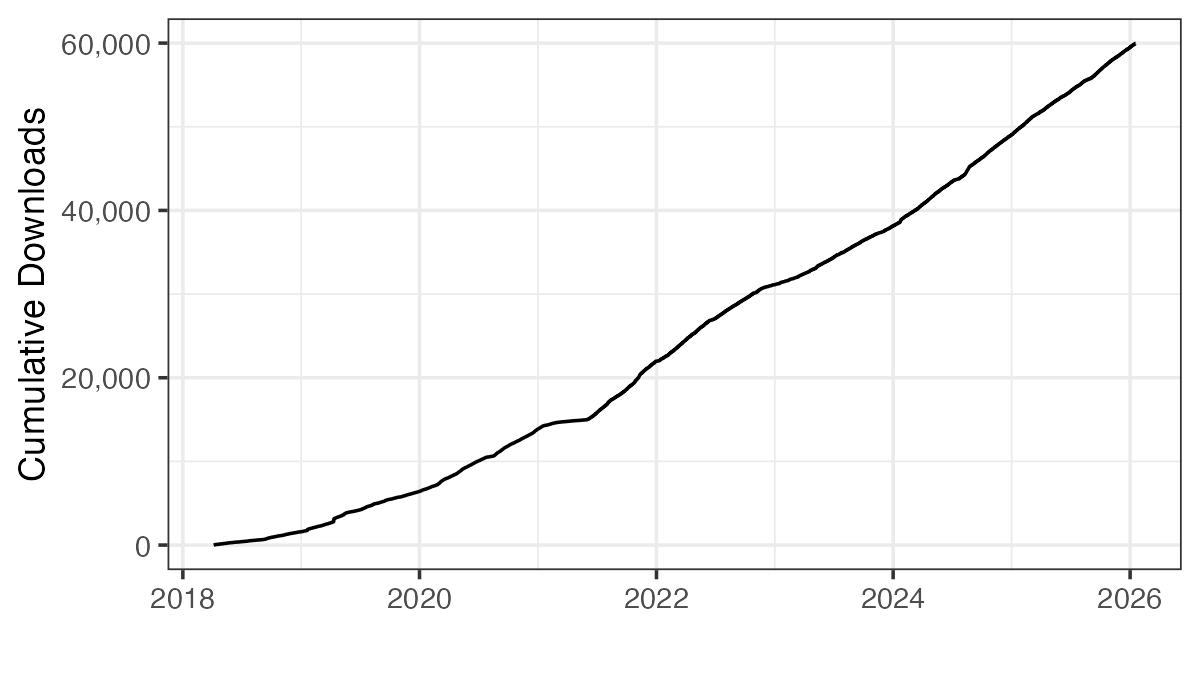
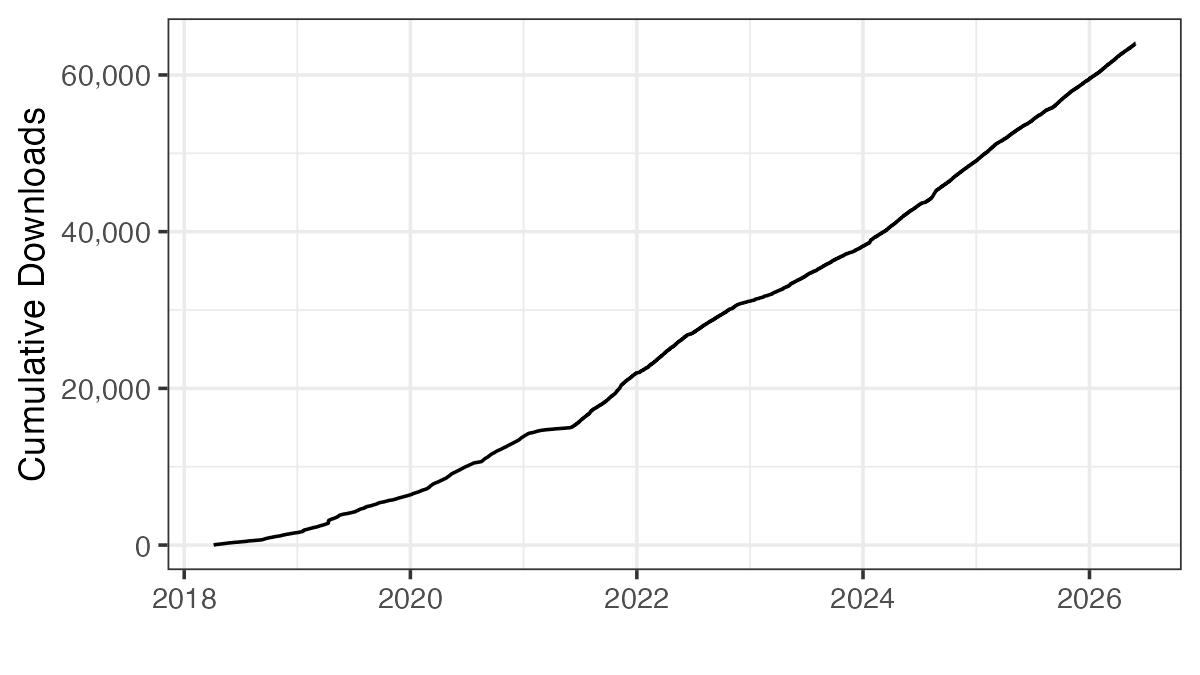
added Stata journal and download stats

diff --git a/docs/about/index.html b/docs/about/index.html
@@ -62,7 +62,7 @@
   "headline": "About KonFound-It!",
   "description" : "Welcome to our space about sensitivity analysis.\nQuestions? Issues? Suggestions? Reach out through the KounFound-It! Google Group.\nPurpose All of the assumptions of statistical analysis rarely hold. So the challenge for the pragmatist is to understand when evidence is strong enough to support action. That\u0026rsquo;s where sensitivity analysis comes in—so we can understand how robust our inferences are to challenges to our assumptions. One example is a statement such as:",
   "inLanguage" : "en",
-  "wordCount":  722 ,
+  "wordCount":  740 ,
   "datePublished" : "0001-01-01T00:00:00",
   "dateModified" : "0001-01-01T00:00:00",
   "image" : "https:\/\/konfound-project.github.io\/img\/KonFoundit%21.png",
@@ -330,8 +330,8 @@
 
   <i class="fas fa-paper-plane"></i>
  Questions? Issues? Suggestions? Reach out through the <a href="https://groups.google.com/g/konfound-it">KounFound-It! Google Group</a>.</p>
-<hr>
 <br>
+<hr>
 <h2 id="purpose">Purpose</h2>
 <p>All of the assumptions of statistical analysis rarely hold. So the challenge for the pragmatist is to understand when evidence is strong enough to support action. That&rsquo;s where sensitivity analysis comes in—so we can understand how robust our inferences are to challenges to our assumptions. One example is a statement such as:</p>
 <blockquote>
@@ -339,8 +339,8 @@
 </blockquote>
 <p>But that’s just one. In this website, we discuss lots of approaches, applications, and the pluses and minuses.</p>
 <p>Our work in the KonFound-It project is to develop—and make easy to use—sensitivity analyses that quantify the robustness of inferences to concerns about omitted variables and other sources of bias.</p>
-<hr>
 <br>
+<hr>
 <h2 id="learn-more-about-sensitivity-analysis">Learn More About Sensitivity Analysis</h2>
 <p>
   
@@ -374,8 +374,8 @@
 </div>
 
 <h3 id="check-out-the-introductory-videos-pagepagevideos-for-more-resources">Check out the <a href="/page/videos">Introductory Videos page</a> for more resources.</h3>
-<hr>
 <br>
+<hr>
 <h2 id="meet-the-team">Meet the Team</h2>
 <p>We are a group of researchers spanning numerous institutions who would like to contribute to better communications of research inferences and findings.</p>
 <!---See https://github.com/liwenyip/hugo-easy-gallery-->
@@ -638,8 +638,8 @@
 <li><a href="https://sites.duke.edu/panwei/">Wei Pan</a> (Duke University)</li>
 <li>Wei Wang (University of Tennessee, Knoxville)</li>
 </ul>
-<hr>
 <br>
+<hr>
 <h2 id="tools">Tools</h2>
 <h3 id="hahahugoshortcode2s6hbhb-konfound-it-shiny-app">
   
@@ -655,6 +655,7 @@
   <i class="fas fa-warehouse"></i>
  WWC Benchmarks: What Works Clearinghouse</h3>
 <p>Maroulis, S., Overstreet, D., Frank, K. A., &amp; Staudt Willet, K. B. (2024). <em>What works clearinghouse Sensitivity analysis benchmarks</em>. <a href="https://konfound-project.shinyapps.io/wwc-sensitivity-benchmark/">https://konfound-project.shinyapps.io/wwc-sensitivity-benchmark/</a></p>
+<br>
 <hr>
 <h3 id="hahahugoshortcode2s8hbhb-konfound-r-package">
   
@@ -663,6 +664,7 @@
   <i class="fab fa-r-project"></i>
  KonFound R Package</h3>
 <p>Rosenberg, J. M., Xu, R., Lin, Q., Maroulis, S., &amp; Frank, K. A. (2025). <em>konfound: Quantify the robustness of causal inferences</em> (v. 1.0.3). <a href="https://CRAN.R-project.org/package=konfound">https://CRAN.R-project.org/package=konfound</a></p>
+<br>
 <table>
 <thead>
 <tr>
@@ -691,7 +693,8 @@
 <div class="highlight"><pre tabindex="0" class="chroma"><code class="language-gdscript3" data-lang="gdscript3"><span class="line"><span class="cl"><span class="n">install</span><span class="o">.</span><span class="n">packages</span><span class="p">(</span><span class="s2">&#34;konfound&#34;</span><span class="p">)</span>
 </span></span><span class="line"><span class="cl"><span class="n">library</span><span class="p">(</span><span class="n">konfound</span><span class="p">)</span>
 </span></span><span class="line"><span class="cl"><span class="n">pkonfound</span><span class="p">(</span><span class="n">est_eff</span> <span class="o">=</span> <span class="o">-</span><span class="mf">9.01</span><span class="p">,</span> <span class="n">std_err</span> <span class="o">=</span> <span class="o">.</span><span class="mi">68</span><span class="p">,</span> <span class="n">n_obs</span> <span class="o">=</span> <span class="mi">7639</span><span class="p">,</span> <span class="n">n_covariates</span> <span class="o">=</span> <span class="mi">221</span><span class="p">)</span>
-</span></span></code></pre></div><hr>
+</span></span></code></pre></div><br>
+<hr>
 <h3 id="hahahugoshortcode2s10hbhb-konfound-stata-package">
   
   
@@ -699,6 +702,19 @@
   <i class="fab fa-stripe-s"></i>
  KonFound Stata Package</h3>
 <p>Xu, R., Frank, K. A., Maroulis, S. J., &amp; Rosenberg, J. M. (2019). konfound: Command to quantify robustness of causal inferences. <em>The Stata Journal, 19</em>(3), 523-550. <a href="https://doi.org/10.1177/1536867X19874223">https://doi.org/10.1177/1536867X19874223</a></p>
+<ul>
+<li><strong>Key Publication Metrics:</strong> (May 2026)
+<ul>
+<li>Total Views &amp; Downloads: 8,165
+</li>
+<li>Web of Science Citations: 174
+</li>
+<li>Crossref Citations: 188
+</li>
+</ul>
+</li>
+</ul>
+<br>
 <table>
 <thead>
 <tr>
@@ -708,8 +724,10 @@
 </thead>
 <tbody>
 <tr>
-<td style="text-align:left">412/month</td>
-<td style="text-align:left">18,023</td>
+<td style="text-align:left">412/month
+</td>
+<td style="text-align:left">18,023
+</td>
 </tr>
 </tbody>
 </table>
@@ -720,8 +738,8 @@
 </span></span><span class="line"><span class="cl">ssc install moss
 </span></span><span class="line"><span class="cl">ssc install matsort
 </span></span><span class="line"><span class="cl">pkonfound -9.01 .68 7639 221
-</span></span></code></pre></div><hr>
-<br>
+</span></span></code></pre></div><br>
+<hr>
 <h2 id="internal-resources">Internal Resources</h2>
 <p>Be sure to look through the variety of supports for KonFound:</p>
 <ul>
@@ -734,16 +752,16 @@
 <li><a href="https://konfound-project.shinyapps.io/wwc-sensitivity-benchmark/">Benchmarks: What Works Clearinghouse</a></li>
 <li><a href="/page/guide">Practical Guide</a></li>
 </ul>
-<hr>
 <br>
+<hr>
 <h2 id="external-resources">External Resources</h2>
 <p>We refer to a lot of open resources for building this site, including:</p>
 <ul>
 <li><a href="https://bookdown.org/yihui/blogdown/">blogdown: Creating Websites with R Markdown</a></li>
 <li><a href="https://simplystatistics.org/">Simply Statistics</a></li>
 </ul>
-<hr>
 <br>
+<hr>
 <h2 id="connect">Connect</h2>
 <ul>
 <li>Project Overview and Details: Peruse the <a href="https://konfound-it.org/">KonFound-It! Website</a></li>
@@ -759,6 +777,7 @@
 <li>Website: Contact <a href="https://bretsw.com">Bret Staudt Willet</a></li>
 </ul>
 <br>
+<hr>
 <h3 id="thanks-for-visiting-happy-konfounding">Thanks for visiting! Happy KonFounding!</h3>
 
 

diff --git a/docs/page/videos/index.html b/docs/page/videos/index.html
@@ -14,7 +14,7 @@
 
   <meta name="description" content="Introduction to Sensitivity Analysis * KonFound-It! * September 2025
 Introduction to Two Frameworks for Sensitivity Analysis * KonFound-It! * October 2025
-Impact Threshold of a Confounding Variable (ITCV) in Stata * KonFound-It! * January 2026
+Calculating Impact Threshold of a Confounding Variable (ITCV) in Stata * KonFound-It! * January 2026
 Quantifying Sensitivity in Causal Inference with Kenneth Frank * Statistical Horizons * March 2025
 Robustness of Inference to Replacement &amp; Fragility for Logistic Regression and Hazard Functions * Michigan State University - Epidemiology &amp; Biostatistics * April 2024"><script type="application/ld+json">
 {
@@ -64,9 +64,9 @@ Robustness of Inference to Replacement &amp; Fragility for Logistic Regression a
     "name" : ""
   },
   "headline": "Introductory Videos",
-  "description" : "Introduction to Sensitivity Analysis * KonFound-It! * September 2025\nIntroduction to Two Frameworks for Sensitivity Analysis * KonFound-It! * October 2025\nImpact Threshold of a Confounding Variable (ITCV) in Stata * KonFound-It! * January 2026\nQuantifying Sensitivity in Causal Inference with Kenneth Frank * Statistical Horizons * March 2025\nRobustness of Inference to Replacement \u0026amp; Fragility for Logistic Regression and Hazard Functions * Michigan State University - Epidemiology \u0026amp; Biostatistics * April 2024",
+  "description" : "Introduction to Sensitivity Analysis * KonFound-It! * September 2025\nIntroduction to Two Frameworks for Sensitivity Analysis * KonFound-It! * October 2025\nCalculating Impact Threshold of a Confounding Variable (ITCV) in Stata * KonFound-It! * January 2026\nQuantifying Sensitivity in Causal Inference with Kenneth Frank * Statistical Horizons * March 2025\nRobustness of Inference to Replacement \u0026amp; Fragility for Logistic Regression and Hazard Functions * Michigan State University - Epidemiology \u0026amp; Biostatistics * April 2024",
   "inLanguage" : "en",
-  "wordCount":  93 ,
+  "wordCount":  94 ,
   "datePublished" : "0001-01-01T00:00:00",
   "dateModified" : "0001-01-01T00:00:00",
   "image" : "https:\/\/konfound-project.github.io\/img\/KonFoundit%21.png",
@@ -88,7 +88,7 @@ Robustness of Inference to Replacement &amp; Fragility for Logistic Regression a
 <meta property="og:title" content="Introductory Videos" />
 <meta property="og:description" content="Introduction to Sensitivity Analysis * KonFound-It! * September 2025
 Introduction to Two Frameworks for Sensitivity Analysis * KonFound-It! * October 2025
-Impact Threshold of a Confounding Variable (ITCV) in Stata * KonFound-It! * January 2026
+Calculating Impact Threshold of a Confounding Variable (ITCV) in Stata * KonFound-It! * January 2026
 Quantifying Sensitivity in Causal Inference with Kenneth Frank * Statistical Horizons * March 2025
 Robustness of Inference to Replacement &amp; Fragility for Logistic Regression and Hazard Functions * Michigan State University - Epidemiology &amp; Biostatistics * April 2024">
 <meta property="og:image" content="https://konfound-project.github.io/img/KonFoundit%21.png" />
@@ -99,7 +99,7 @@ Robustness of Inference to Replacement &amp; Fragility for Logistic Regression a
   <meta name="twitter:title" content="Introductory Videos" />
   <meta name="twitter:description" content="Introduction to Sensitivity Analysis * KonFound-It! * September 2025
 Introduction to Two Frameworks for Sensitivity Analysis * KonFound-It! * October 2025
-Impact Threshold of a Confounding Variable …">
+Calculating Impact Threshold of a Confounding …">
   <meta name="twitter:image" content="https://konfound-project.github.io/img/KonFoundit%21.png" />
   <meta name="twitter:card" content="summary_large_image" />
   <link href='https://konfound-project.github.io/img/KonFoundit%21-mark.png' rel='icon' type='image/x-icon'/>
@@ -351,7 +351,7 @@ Impact Threshold of a Confounding Variable …">
       <div class="embed-responsive embed-responsive-16by9">
         <iframe class="embed-responsive-item" src="https://www.youtube.com/embed/kDYc2nOXSwc"></iframe>
       </div>
-      <p><strong>Impact Threshold of a Confounding Variable (ITCV) in Stata  * KonFound-It! * January 2026</strong></p>
+      <p><strong>Calculating Impact Threshold of a Confounding Variable (ITCV) in Stata  * KonFound-It! * January 2026</strong></p>
     </div>
   
     

diff --git a/docs/page/index.html b/docs/page/index.html
@@ -336,7 +336,7 @@ Overview of all KonFound commands Main introductory slides for combined framewor
     &nbsp;|&nbsp;<i class="fas fa-clock"></i>&nbsp;1&nbsp;minutes
   
   
-    &nbsp;|&nbsp;<i class="fas fa-book"></i>&nbsp;93&nbsp;words
+    &nbsp;|&nbsp;<i class="fas fa-book"></i>&nbsp;94&nbsp;words
   
   
     
@@ -352,7 +352,7 @@ Overview of all KonFound commands Main introductory slides for combined framewor
         
         Introduction to Sensitivity Analysis * KonFound-It! * September 2025
 Introduction to Two Frameworks for Sensitivity Analysis * KonFound-It! * October 2025
-Impact Threshold of a Confounding Variable (ITCV) in Stata * KonFound-It! * January 2026
+Calculating Impact Threshold of a Confounding Variable (ITCV) in Stata * KonFound-It! * January 2026
 Quantifying Sensitivity in Causal Inference with Kenneth Frank * Statistical Horizons * March 2025
 Robustness of Inference to Replacement &amp; Fragility for Logistic Regression and Hazard Functions * Michigan State University - Epidemiology &amp; Biostatistics * April 2024
         <a href="https://konfound-project.github.io/page/videos/" class="post-read-more">[Read More]</a>

diff --git a/layouts/shortcodes/stata_package_downloads.html b/layouts/shortcodes/stata_package_downloads.html
@@ -1,0 +1,1 @@
+{{ index .Site.Data.stata_package_downloads (.Get 0) }}

diff --git a/layouts/shortcodes/stata_journal_stats.html b/layouts/shortcodes/stata_journal_stats.html
@@ -1,0 +1,1 @@
+{{ index .Site.Data.stata_journal_metrics (.Get 0) }}

diff --git a/content/about.md b/content/about.md
@@ -14,11 +14,11 @@ Welcome to our space about **[sensitivity analysis](https://en.wikipedia.org/wik
 
 
 
+<br>
+
 ---
 
 
-
-<br>
 
 ## Purpose
 
@@ -32,13 +32,10 @@ Our work in the KonFound-It project is to develop&#8212;and make easy to use&#82
 
 
 
-
+<br>
 
 ---
 
-
-
-<br>
 
 
 ## Learn More About Sensitivity Analysis
@@ -58,11 +55,11 @@ Our work in the KonFound-It project is to develop&#8212;and make easy to use&#82
 
 
 
+<br>
+
 ---
 
 
-
-<br>
 
 ## Meet the Team
 
@@ -111,11 +108,13 @@ We are a group of researchers spanning numerous institutions who would like to c
 - [Wei Pan](https://sites.duke.edu/panwei/) (Duke University)
 - Wei Wang (University of Tennessee, Knoxville)
 
----
-
 
 
 <br>
+
+---
+
+
 
 ## Tools
 
@@ -132,13 +131,15 @@ Maroulis, S., Overstreet, D., Frank, K. A., & Staudt Willet, K. B. (2024). *What
 
 
 
+<br>
+
 ---
 
 ### {{< awesome fab fa-r-project >}} KonFound R Package
 
 Rosenberg, J. M., Xu, R., Lin, Q., Maroulis, S., & Frank, K. A. (2025). *konfound: Quantify the robustness of causal inferences* (v. 1.0.3). https://CRAN.R-project.org/package=konfound 
 
-
+<br>
 
 | Monthly Downloads | Total Downloads |
 | :---------------- | :-------------- |
@@ -159,16 +160,27 @@ pkonfound(est_eff = -9.01, std_err = .68, n_obs = 7639, n_covariates = 221)
 ```
 
 
+
+<br>
+
 ---
+
+
 
 ### {{< awesome fab fa-stripe-s >}} KonFound Stata Package
 
 Xu, R., Frank, K. A., Maroulis, S. J., & Rosenberg, J. M. (2019). konfound: Command to quantify robustness of causal inferences. *The Stata Journal, 19*(3), 523-550. https://doi.org/10.1177/1536867X19874223
 
+- **Key Publication Metrics:** (May 2026)
+  - Total Views & Downloads: {{< stata_journal_stats "views" >}}
+  - Web of Science Citations: {{< stata_journal_stats "wos" >}}
+  - Crossref Citations: {{< stata_journal_stats "crossref" >}}
+
+<br>
 
 | Monthly Downloads | Total Downloads (Jan. 2026) |
 | :---------------- | :-------------- |
-| 412/month | 18,023 |
+| {{< stata_package_downloads "monthly_downloads" >}} | {{< stata_package_downloads "total_downloads" >}} |
 
 ![Line plot of konfound Stata package downloads over time](/img/konfound-downloads-stata.png)
 
@@ -184,11 +196,12 @@ pkonfound -9.01 .68 7639 221
 ```
 
 
+
+<br>
+
 ---
 
 
-
-<br>
 
 ## Internal Resources
 
@@ -203,11 +216,13 @@ Be sure to look through the variety of supports for KonFound:
 - [Benchmarks: What Works Clearinghouse](https://konfound-project.shinyapps.io/wwc-sensitivity-benchmark/)
 - [Practical Guide](/page/guide)
 
----
-
 
 
 <br>
+
+---
+
+
 
 ## External Resources
 
@@ -216,11 +231,13 @@ We refer to a lot of open resources for building this site, including:
 - [blogdown: Creating Websites with R Markdown](https://bookdown.org/yihui/blogdown/)
 - [Simply Statistics](https://simplystatistics.org/)
 
----
-
 
 
 <br>
+
+---
+
+
 
 ## Connect
 
@@ -239,5 +256,7 @@ We refer to a lot of open resources for building this site, including:
 
 
 <br>
+
+---
 
 ### Thanks for visiting! Happy KonFounding!

diff --git a/content/page/videos.md b/content/page/videos.md
@@ -6,7 +6,7 @@ comments: false
 
 {{< video-gallery "Yb3K5kJ2ftk|Introduction to Sensitivity Analysis * KonFound-It! * September 2025" 
   "Zj-9SDlAjEo|Introduction to Two Frameworks for Sensitivity Analysis * KonFound-It! * October 2025" 
-  "kDYc2nOXSwc|Impact Threshold of a Confounding Variable (ITCV) in Stata  * KonFound-It! * January 2026" 
+  "kDYc2nOXSwc|Calculating Impact Threshold of a Confounding Variable (ITCV) in Stata  * KonFound-It! * January 2026" 
   "cIEHaBQRUZk|Quantifying Sensitivity in Causal Inference with Kenneth Frank * Statistical Horizons * March 2025"
   "onEVwwS3Duo|Robustness of Inference to Replacement & Fragility for Logistic Regression and Hazard Functions * Michigan State University - Epidemiology & Biostatistics * April 2024"
   "3Djd0EmvL8Q|Communicating the Robustness of COVID-19 Studies * Arizona State University - Center on Technology, Data & Society * May 2020" 
